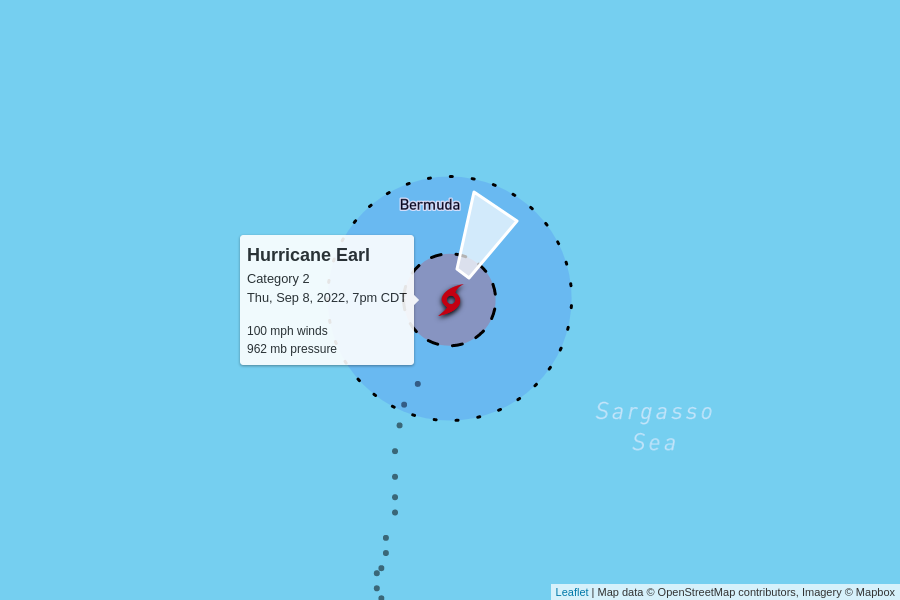
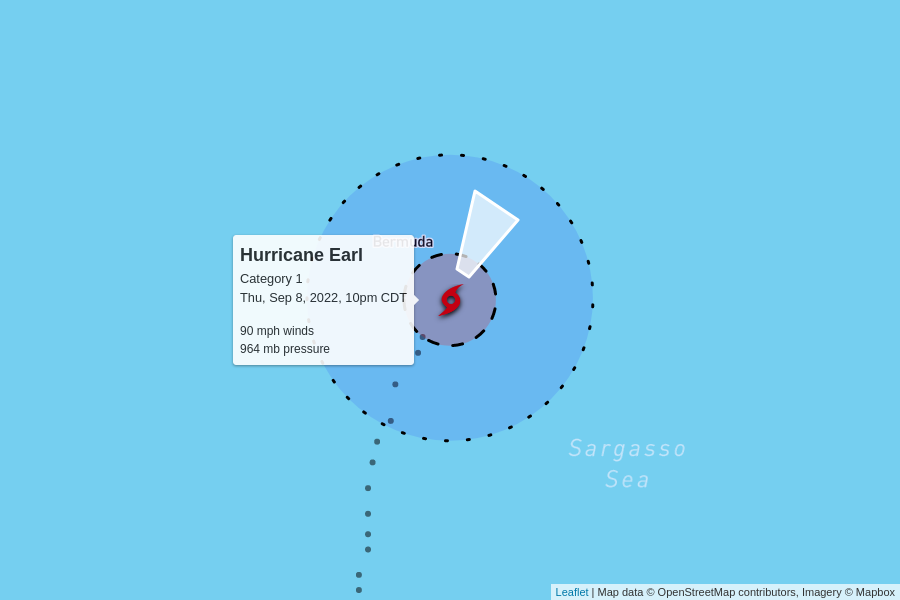
automatic update

diff --git a/docs/index.html b/docs/index.html
@@ -97,10 +97,10 @@
 
     <table>
       <tr>
-        <td colspan="6" class="storm category-2" >
+        <td colspan="6" class="storm category-1" >
           <h2>
-            Hurricane Earl - Category 2
-            <p class="updated">last updated <span data-time>2022-09-09T00:00:00.000Z</span></p>
+            Hurricane Earl - Category 1
+            <p class="updated">last updated <span data-time>2022-09-09T03:00:00.000Z</span></p>
           </h2>
         </td>
       </tr>
@@ -115,10 +115,10 @@
       </tr>
       <tr>
         <td class="spacer"></td>
-        <td>100 mph</td>
-        <td>962 mb</td>
+        <td>90 mph</td>
+        <td>964 mb</td>
         <td>
-          16 mph to the north-northeast
+          15 mph to the north-northeast
           <br/>
           <span style="display: inline-block; font-size: 1.5em; transform: rotate(30deg);">↑</span>
         </td>
